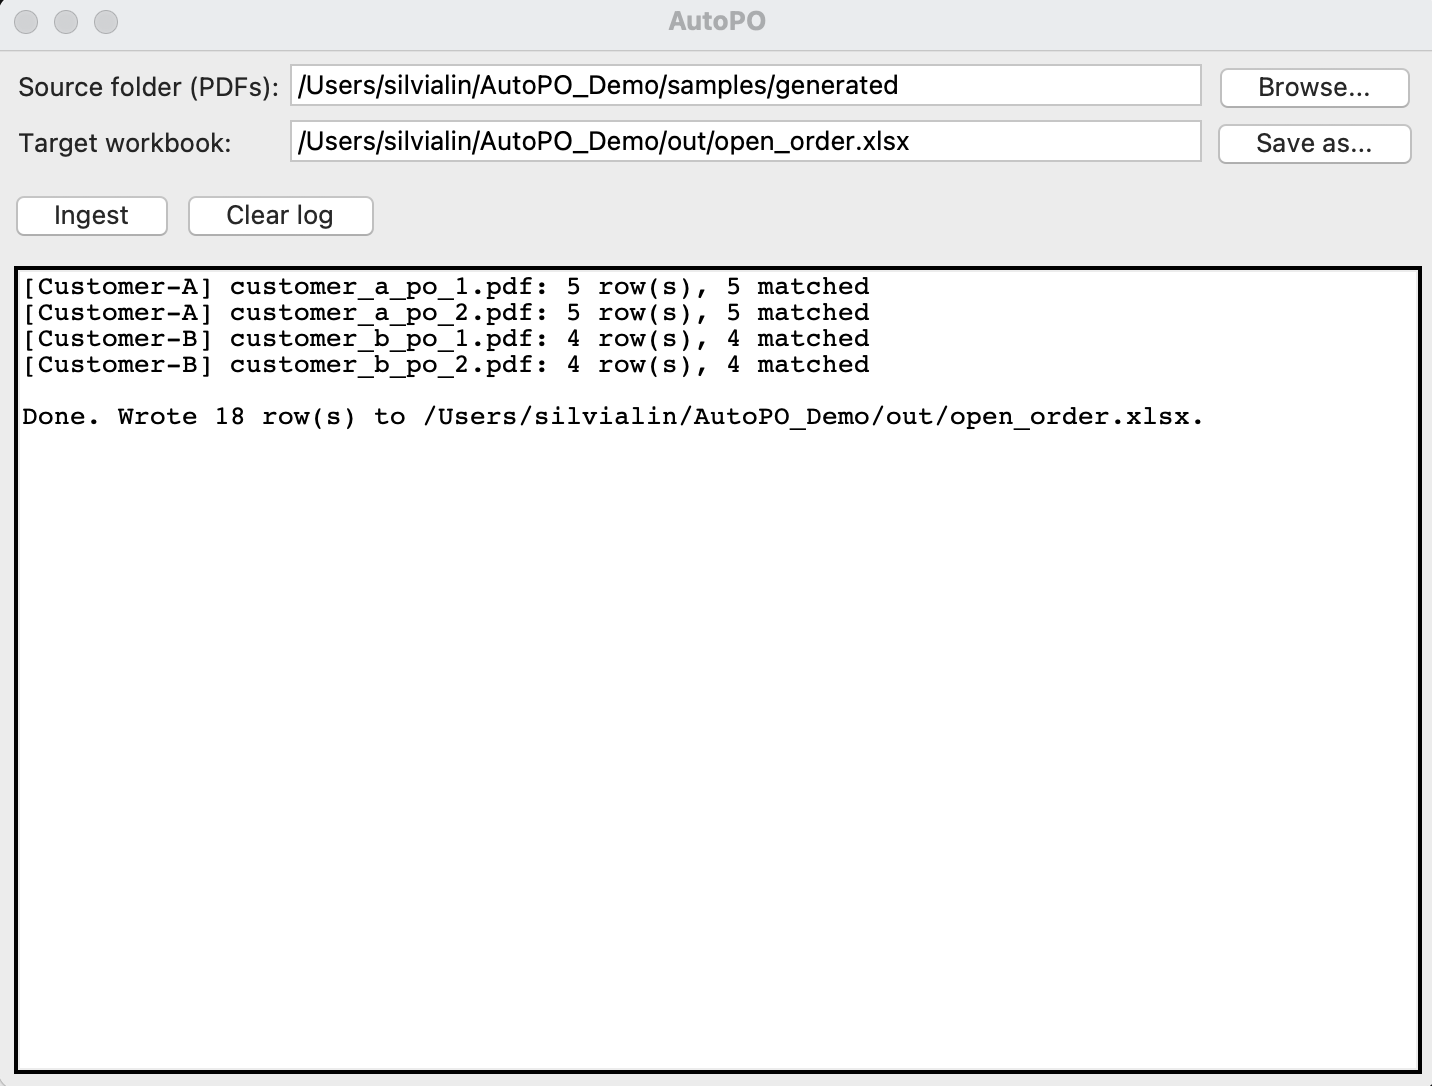
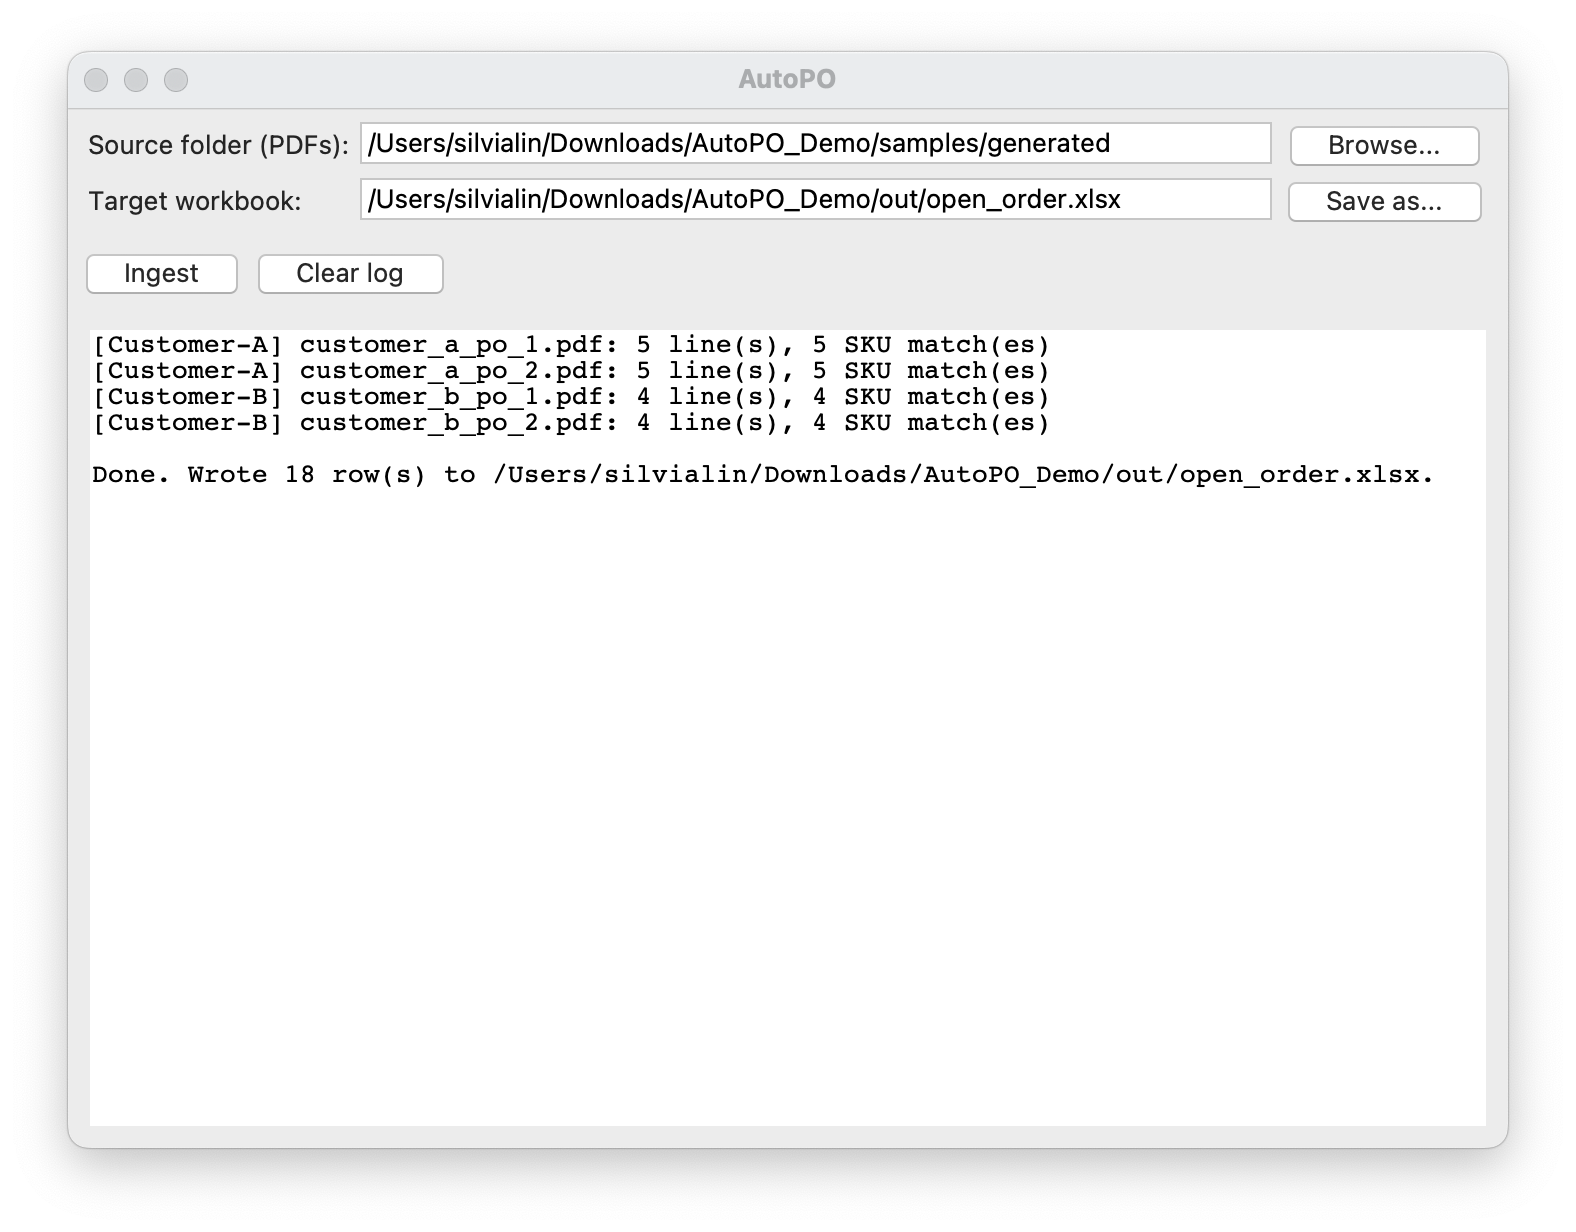
docs: refresh the GUI screenshot
The old shot predated PR #2, which unified the CLI and GUI wording. It still
read "5 row(s), 5 matched" while the app prints "5 line(s), 5 SKU match(es)".

Shot against an empty workbook so the log shows a clean run rather than the
duplicate warnings a repeat ingest would produce, matching the expected output
in the quick start.

Drops the re-shoot note that stood above the image, and picks up a formatter
pass over the test table -- alignment only, no wording changed.

Changed region(s): [[0.0, 0.0, 1.0, 1.0]]

diff --git a/README.md b/README.md
@@ -115,10 +115,6 @@ autopo-gui
 
 ### AutoPO GUI
 
-<!-- To refresh this shot: run `autopo-gui`, set the source to
-     samples/generated and the target to out/open_order.xlsx, press Ingest,
-     then capture the window and overwrite docs/screenshots/gui.png. -->
-
 <p align="center">
   <img src="docs/screenshots/gui.png" width="600" alt="GUI">
 </p>
@@ -198,15 +194,15 @@ pytest --cov --cov-report=term-missing
 them on Python 3.10 through 3.13 — see
 [`.github/workflows/tests.yml`](.github/workflows/tests.yml).
 
-| Suite                    | What it pins down                                                          |
-| :----------------------- | :------------------------------------------------------------------------- |
-| `test_normalize.py`      | Date formats (ISO / D-M-Y / M-D-Y / textual, incl. German months), thousands-vs-decimal separators, week-start snapping |
-| `test_parsers.py`        | Both PO layouts field by field — CRD lead time, US-cent prices, dropped spacer rows, unreadable dates |
-| `test_mapper.py`         | Customer-alias collapsing and SKU matching across inconsistent part-number spellings |
-| `test_excel_writer.py`   | Headers written once, appends accumulate, every cell stays text for the ERP import |
-| `test_dispatch.py`       | Fingerprint routing, and that an unrecognised PDF is reported rather than guessed at |
-| `test_pipeline.py`       | The ingest run itself — progress callbacks, damaged and unrecognised files, totals |
-| `test_cli.py`            | The full `ingest` run end to end, plus its exit codes                      |
+| Suite                  | What it pins down                                                                                                       |
+| :--------------------- | :---------------------------------------------------------------------------------------------------------------------- |
+| `test_normalize.py`    | Date formats (ISO / D-M-Y / M-D-Y / textual, incl. German months), thousands-vs-decimal separators, week-start snapping |
+| `test_parsers.py`      | Both PO layouts field by field — CRD lead time, US-cent prices, dropped spacer rows, unreadable dates                   |
+| `test_mapper.py`       | Customer-alias collapsing and SKU matching across inconsistent part-number spellings                                    |
+| `test_excel_writer.py` | Headers written once, appends accumulate, every cell stays text for the ERP import                                      |
+| `test_dispatch.py`     | Fingerprint routing, and that an unrecognised PDF is reported rather than guessed at                                    |
+| `test_pipeline.py`     | The ingest run itself — progress callbacks, damaged and unrecognised files, totals                                      |
+| `test_cli.py`          | The full `ingest` run end to end, plus its exit codes                                                                   |
 
 Parser tests build their own PO PDFs (`tests/factories.py`) with fixed
 quantities, prices and dates, so assertions can name an exact CRD or unit
